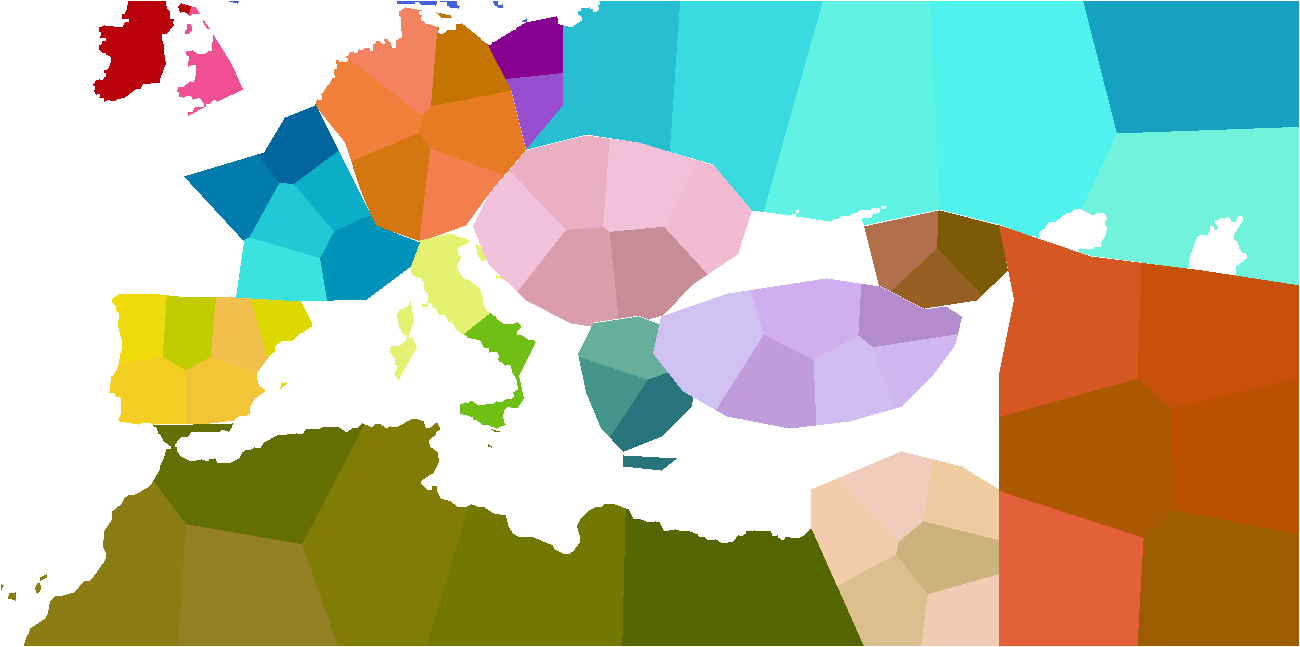
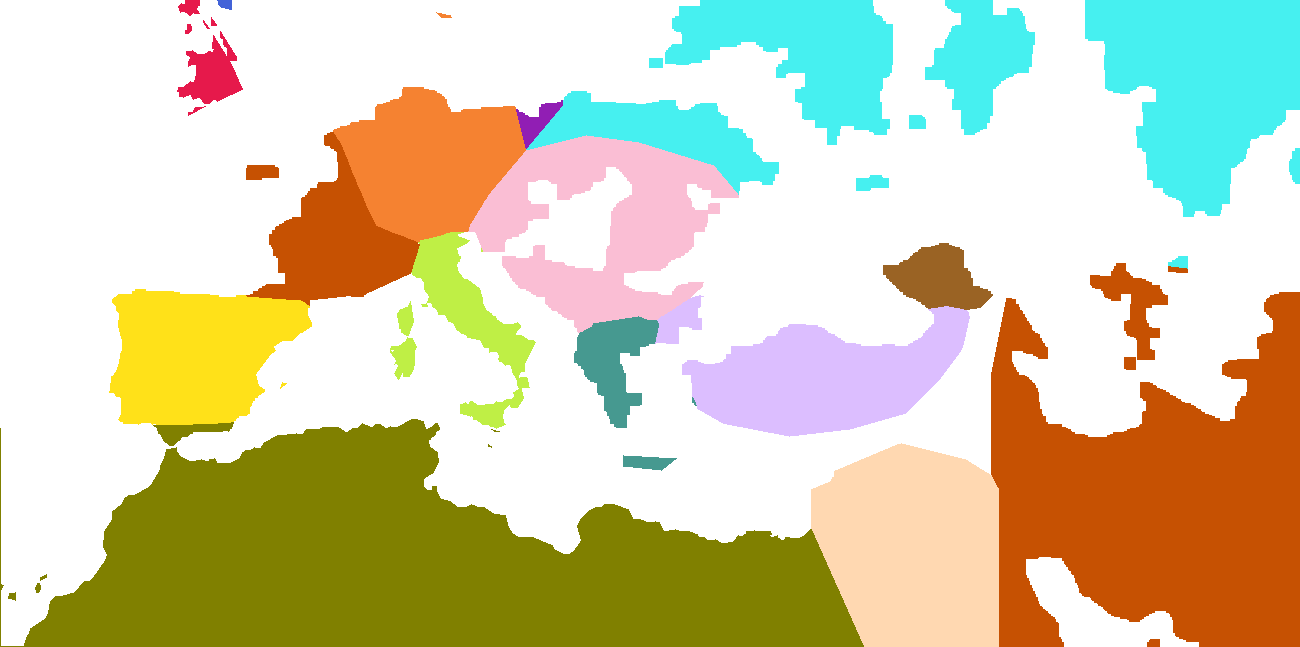
gapfill: clip region color that overflows onto sea, not just fill land gaps

diff --git a/tools/map_editor/gapfill.py b/tools/map_editor/gapfill.py
@@ -1,42 +1,53 @@
-"""Fills coastline gaps in an exported region_map.png raster.
+"""Reconciles an exported region_map.png raster against the land/sea
+classification in server.build_land_mask, in both directions.
 
-Tracing borders by hand rarely lands exactly on the coastline. This
-leaves small strips of background color between a region's polygon edge
-and the true shore. fill_land_gaps() assigns each gap pixel the exact
-color of its nearest region, with no color blending. regions.txt only
-recognizes exact hex matches. An averaged color would just render as
-invisible background in-game (see province_map.gd, which silently
-skips unlisted colors).
+fill_land_gaps() closes small background strips left on land, from a
+polygon edge not quite reaching the true shore. clip_sea_overflow()
+reverts region color that spilled onto water, from a polygon traced
+too loosely over the shoreline. Both keep colors exact, never blended.
+regions.txt only recognizes exact hex matches. A blended color would
+just render as invisible background in-game (see province_map.gd,
+which silently skips unlisted colors).
 
-Gaps on the sea side stay untouched, since water has no province to
-assign.
+fill_land_gaps() only bridges gaps up to MAX_GAP_PX. An untraced
+country can be an arbitrarily large patch of background. Flooding a
+neighboring region's color across all of it would silently annex land
+nobody drew.
 """
 
 import cv2
 import numpy as np
+
+MAX_GAP_PX = 8  # widest untraced strip a gap-fill will bridge
+MIN_OVERFLOW_AREA_PX = 3000  # smallest contiguous sea-overflow blob to clip
 
 
 def fill_land_gaps(
     canvas_rgb: np.ndarray,
     land_mask: np.ndarray,
     background_rgb: tuple[int, int, int] = (255, 255, 255),
+    max_gap_px: float = MAX_GAP_PX,
 ) -> np.ndarray:
     """Return a copy of canvas_rgb with background pixels on land_mask
-    replaced by the exact color of their nearest region pixel.
-    Background pixels off land_mask (sea) stay as-is."""
+    replaced by their nearest region's color, within max_gap_px.
+    Background off land_mask, or too far from any region, stays
+    as-is."""
     background = np.array(background_rgb, dtype=np.uint8)
     background_mask = np.all(canvas_rgb == background, axis=-1)
-    gap_mask = background_mask & land_mask
     seed_mask = ~background_mask
-    if not gap_mask.any() or not seed_mask.any():
+    if not background_mask.any() or not seed_mask.any():
         return canvas_rgb.copy()
 
     # src must be 0 at seed pixels (region colors) so distanceTransform
     # measures, for every other pixel, distance/label to the nearest one.
     src = np.where(seed_mask, 0, 255).astype(np.uint8)
-    _, labels = cv2.distanceTransformWithLabels(
+    dist, labels = cv2.distanceTransformWithLabels(
         src, cv2.DIST_L2, cv2.DIST_MASK_PRECISE, labelType=cv2.DIST_LABEL_PIXEL
     )
+
+    gap_mask = background_mask & land_mask & (dist <= max_gap_px)
+    if not gap_mask.any():
+        return canvas_rgb.copy()
 
     # cv2 assigns each seed pixel its own label; build the label->color
     # lookup from the seeds themselves rather than assuming a label order.
@@ -49,3 +60,40 @@ def fill_land_gaps(
     filled = canvas_rgb.copy()
     filled[gap_mask] = lut[labels[gap_mask]]
     return filled
+
+
+def clip_sea_overflow(
+    canvas_rgb: np.ndarray,
+    land_mask: np.ndarray,
+    background_rgb: tuple[int, int, int] = (255, 255, 255),
+    min_area_px: int = MIN_OVERFLOW_AREA_PX,
+) -> np.ndarray:
+    """Return a copy of canvas_rgb with region-colored pixels that fall
+    off land_mask (i.e. classified as sea) reverted to background_rgb.
+    Unlike fill_land_gaps, this has no distance cap. A polygon traced
+    over open water, however far, gets clipped back to the shoreline.
+
+    Only contiguous overflow blobs of at least min_area_px get clipped.
+    land_mask is a coarse heuristic, not per-pixel-exact. Scattered
+    single-pixel "sea" misclassifications inside a region (river
+    glare, shadow, texture noise) stay put instead of punching
+    holes."""
+    background = np.array(background_rgb, dtype=np.uint8)
+    region_mask = ~np.all(canvas_rgb == background, axis=-1)
+    overflow_mask = region_mask & ~land_mask
+    if not overflow_mask.any():
+        return canvas_rgb.copy()
+
+    num_labels, labels, stats, _ = cv2.connectedComponentsWithStats(
+        overflow_mask.astype(np.uint8), connectivity=8
+    )
+    large_overflow = np.zeros_like(overflow_mask)
+    for label in range(1, num_labels):
+        if stats[label, cv2.CC_STAT_AREA] >= min_area_px:
+            large_overflow |= labels == label
+    if not large_overflow.any():
+        return canvas_rgb.copy()
+
+    clipped = canvas_rgb.copy()
+    clipped[large_overflow] = background
+    return clipped

diff --git a/tools/map_editor/tests/test_gapfill.py b/tools/map_editor/tests/test_gapfill.py
@@ -1,8 +1,8 @@
-"""Unit tests for gapfill.fill_land_gaps, isolated from the exporter."""
+"""Unit tests for gapfill's fill/clip functions, isolated from the exporter."""
 
 import numpy as np
 
-from gapfill import fill_land_gaps
+from gapfill import clip_sea_overflow, fill_land_gaps
 
 WHITE = (255, 255, 255)
 RED = (255, 0, 0)
@@ -15,16 +15,16 @@ def make_canvas(width=20, height=20, fill=WHITE):
     return canvas
 
 
-def test_fills_single_gap_pixel_with_neighboring_region_color():
+def test_fills_small_gap_with_neighboring_region_color():
     canvas = make_canvas()
     canvas[:, :10] = RED  # region covering the left half
     land_mask = np.ones((20, 20), dtype=bool)  # everything is land
 
-    filled = fill_land_gaps(canvas, land_mask)
+    filled = fill_land_gaps(canvas, land_mask, max_gap_px=8)
 
-    # Every previously-white land pixel must now match the red region
-    # exactly (the only region color available), not stay white or blend.
-    assert np.all(filled == RED)
+    # A gap within max_gap_px of the region must take its exact color,
+    # not stay white or blend.
+    assert np.all(filled[:, 10:18] == RED)
 
 
 def test_leaves_sea_background_untouched():
@@ -73,6 +73,21 @@ def test_no_gaps_returns_canvas_unchanged():
     assert np.array_equal(filled, canvas)
 
 
+def test_does_not_flood_a_large_untraced_land_area():
+    # A whole untraced country (30px of background, all land) sits next to
+    # one small colored region. This must NOT get annexed by that region's
+    # color - only the strip within max_gap_px of it should fill.
+    canvas = make_canvas(width=50)
+    canvas[:, :5] = RED  # the only traced region
+    land_mask = np.ones((20, 50), dtype=bool)
+
+    filled = fill_land_gaps(canvas, land_mask, max_gap_px=8)
+
+    assert np.all(filled[:, :5] == RED)
+    assert np.all(filled[:, 14:] == WHITE)  # far side of the untraced country
+    assert np.all(filled[:, 5:13] == RED)  # within max_gap_px, bridged
+
+
 def test_does_not_mutate_input_canvas():
     canvas = make_canvas()
     canvas[:, :10] = RED
@@ -80,5 +95,75 @@ def test_does_not_mutate_input_canvas():
     land_mask = np.ones((20, 20), dtype=bool)
 
     fill_land_gaps(canvas, land_mask)
+
+    assert np.array_equal(canvas, original)
+
+
+# ---------------------------------------------------------------------------
+# clip_sea_overflow
+# ---------------------------------------------------------------------------
+
+
+def test_clips_region_color_that_overshoots_onto_sea():
+    # A polygon traced too loosely paints red across the whole 20x20
+    # canvas, but only the left half is actually land. The overflow
+    # (10x20=200px) clears the default min_area_px floor.
+    canvas = make_canvas()
+    canvas[:, :] = RED
+    land_mask = np.zeros((20, 20), dtype=bool)
+    land_mask[:, :10] = True
+
+    clipped = clip_sea_overflow(canvas, land_mask, min_area_px=50)
+
+    assert np.all(clipped[:, :10] == RED)
+    assert np.all(clipped[:, 10:] == WHITE)
+
+
+def test_clip_has_no_distance_cap_unlike_gap_fill():
+    # Overflow far from the true shore (not just a coastline sliver) must
+    # still clip - this is what fixes a badly-traced polygon that covers
+    # a whole sea, not just fills a stray pixel.
+    canvas = make_canvas(width=100)
+    canvas[:, :] = RED
+    land_mask = np.zeros((20, 100), dtype=bool)
+    land_mask[:, :5] = True  # true shore is only 5px in; the rest is sea
+
+    clipped = clip_sea_overflow(canvas, land_mask, min_area_px=50)
+
+    assert np.all(clipped[:, :5] == RED)
+    assert np.all(clipped[:, 5:] == WHITE)
+
+
+def test_clip_ignores_small_overflow_specks_below_min_area():
+    # A handful of scattered single-pixel "sea" misclassifications inside
+    # an otherwise-land region (river glare, shadow, texture noise) must
+    # not get punched into holes.
+    canvas = make_canvas()
+    canvas[:, :] = RED
+    land_mask = np.ones((20, 20), dtype=bool)
+    land_mask[5, 5] = False  # a single stray "sea" pixel deep in the region
+
+    clipped = clip_sea_overflow(canvas, land_mask, min_area_px=50)
+
+    assert np.array_equal(clipped, canvas)
+
+
+def test_clip_leaves_background_and_in_bounds_land_untouched():
+    canvas = make_canvas()
+    canvas[:, :10] = RED
+    land_mask = np.ones((20, 20), dtype=bool)  # everything is land
+
+    clipped = clip_sea_overflow(canvas, land_mask)
+
+    assert np.array_equal(clipped, canvas)
+
+
+def test_clip_does_not_mutate_input_canvas():
+    canvas = make_canvas()
+    canvas[:, :] = RED
+    original = canvas.copy()
+    land_mask = np.zeros((20, 20), dtype=bool)
+
+    clip_sea_overflow(canvas, land_mask)
 
     assert np.array_equal(canvas, original)

diff --git a/tools/map_editor/tests/test_server.py b/tools/map_editor/tests/test_server.py
@@ -105,6 +105,34 @@ def test_export_project_fills_land_gaps_but_not_sea(tmp_path):
     assert tuple(region_map[25, 150]) == (255, 255, 255)
 
 
+def test_export_project_clips_a_polygon_traced_over_the_sea(tmp_path):
+    # An overly loose polygon spans the whole land/sea split (x=0..190 on
+    # a 200px-wide two-tone backdrop where sea starts at x=100). Export
+    # must clip the sea-side portion back to background, not ship a
+    # region painted over open water.
+    image_path = tmp_path / "backdrop.png"
+    make_two_tone_image(image_path, width=200, height=100)
+
+    project = {
+        "image_size": [200, 100],
+        "regions": [
+            {
+                "name": "Oversized",
+                "color": "#ff00ff",
+                "polygons": [[[0, 0], [190, 0], [190, 50], [0, 50]]],
+            }
+        ],
+    }
+
+    srv.export_project(project, image_path, tmp_path / "out")
+
+    region_map = np.array(
+        Image.open(tmp_path / "out" / "region_map.png").convert("RGB")
+    )
+    assert tuple(region_map[25, 20]) == (255, 0, 255)  # land side, kept
+    assert tuple(region_map[25, 180]) == (255, 255, 255)  # sea side, clipped
+
+
 def test_export_project_skips_unnamed_regions(tmp_path):
     image_path = tmp_path / "backdrop.png"
     make_image(image_path, size=(10, 10))

diff --git a/tools/map_editor/server.py b/tools/map_editor/server.py
@@ -41,7 +41,7 @@ import cv2
 import numpy as np
 from PIL import Image, ImageDraw
 
-from gapfill import fill_land_gaps
+from gapfill import clip_sea_overflow, fill_land_gaps
 
 REPO_ROOT = Path(__file__).resolve().parents[2]
 STATIC_DIR = Path(__file__).resolve().parent / "static"
@@ -332,7 +332,8 @@ def export_project(project: dict, image_path: Path, out_dir: Path) -> dict:
         regions_by_color[color] = name.replace(" ", "_")
 
     land_mask = build_land_mask(image_path)
-    filled = fill_land_gaps(np.array(canvas), land_mask)
+    clipped = clip_sea_overflow(np.array(canvas), land_mask)
+    filled = fill_land_gaps(clipped, land_mask)
     canvas = Image.fromarray(filled)
 
     out_dir.mkdir(parents=True, exist_ok=True)
